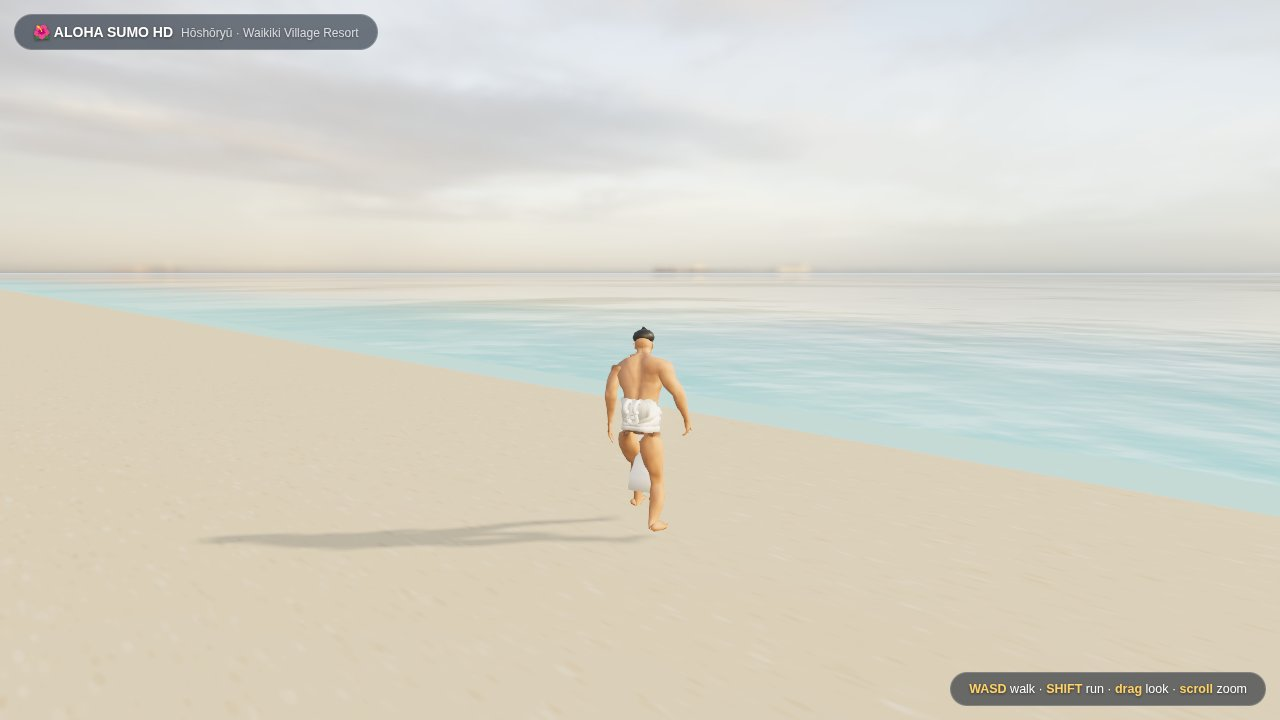
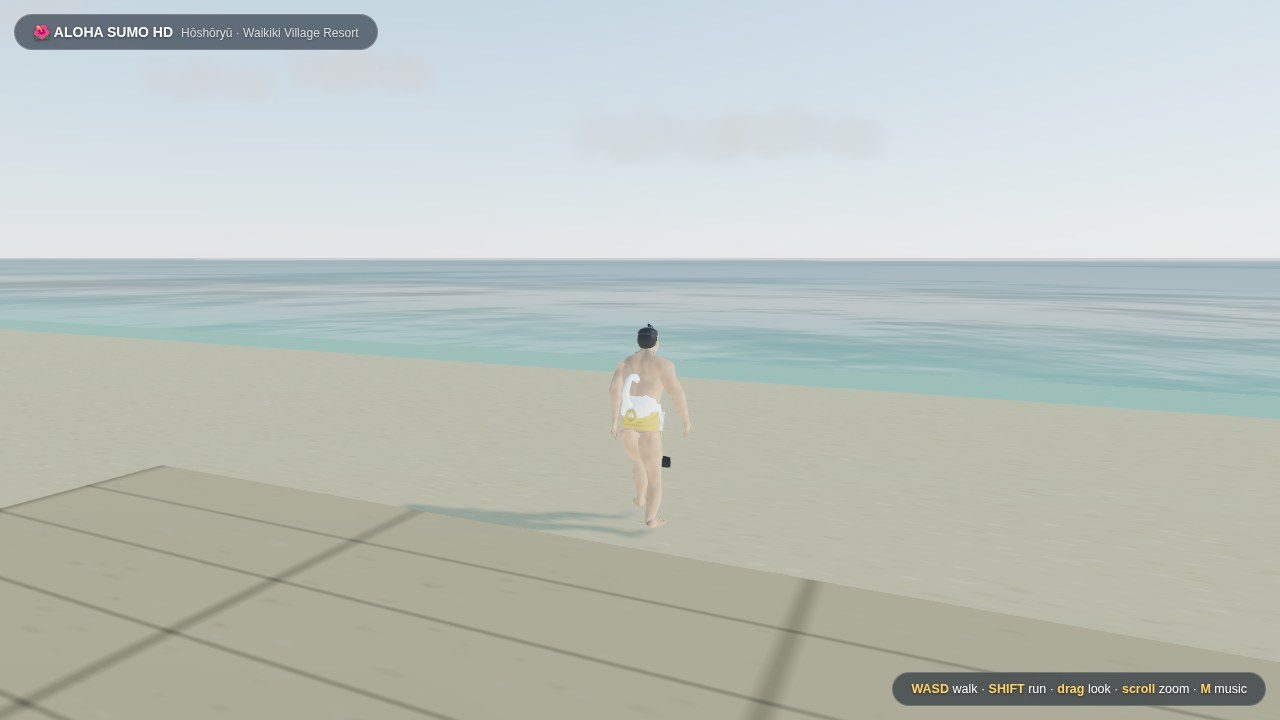
Hawaii-bright sky and island music for the HD demo
Swap the hazy sunrise HDRI for a bright tropical Sky shader baked into
the environment lighting, add trade-wind cumulus, retune exposure/fog,
turquoise-to-deep ocean gradient with calmer water. Add background music:
original slack-key-style synthesized instrumental (M to mute), with
auto-detection of a user-supplied waimanalo-blues.mp3 drop-in.

Claude-Session: https://claude.ai/code/session_013bmtFi8wgBC195uR3SXmAP

diff --git a/aloha-hd/src/hd-main.js b/aloha-hd/src/hd-main.js
@@ -4,31 +4,31 @@
    bloom + SMAA post. Bundled fully self-contained (assets are base64). */
 import * as THREE from 'three';
 import { GLTFLoader } from 'three/examples/jsm/loaders/GLTFLoader.js';
-import { RGBELoader } from 'three/examples/jsm/loaders/RGBELoader.js';
+import { Sky } from 'three/examples/jsm/objects/Sky.js';
 import { Water } from 'three/examples/jsm/objects/Water.js';
 import { EffectComposer } from 'three/examples/jsm/postprocessing/EffectComposer.js';
 import { RenderPass } from 'three/examples/jsm/postprocessing/RenderPass.js';
 import { UnrealBloomPass } from 'three/examples/jsm/postprocessing/UnrealBloomPass.js';
 import { SMAAPass } from 'three/examples/jsm/postprocessing/SMAAPass.js';
 import { OutputPass } from 'three/examples/jsm/postprocessing/OutputPass.js';
-import { SUMO_GLB, HDR_BEACH, TEX_WATERNORMALS, TEX_GRASS } from './hd-assets.js';
+import { SUMO_GLB, TEX_WATERNORMALS, TEX_GRASS } from './hd-assets.js';
 
 const canvas = document.getElementById('c');
 const renderer = new THREE.WebGLRenderer({ canvas, antialias: true, powerPreference: 'high-performance' });
 renderer.setPixelRatio(Math.min(devicePixelRatio || 1, 2));
 renderer.setSize(innerWidth, innerHeight);
 renderer.toneMapping = THREE.ACESFilmicToneMapping;
-renderer.toneMappingExposure = 1.05;
+renderer.toneMappingExposure = 0.55;
 renderer.shadowMap.enabled = true;
 renderer.shadowMap.type = THREE.PCFSoftShadowMap;
 
 const scene = new THREE.Scene();
-scene.fog = new THREE.Fog(0xcfdde6, 220, 1400);
+scene.fog = new THREE.Fog(0xd8ecf8, 420, 2800);
 const camera = new THREE.PerspectiveCamera(55, innerWidth / innerHeight, 0.25, 5000);
 
 const composer = new EffectComposer(renderer);
 composer.addPass(new RenderPass(scene, camera));
-const bloom = new UnrealBloomPass(new THREE.Vector2(innerWidth, innerHeight), 0.18, 0.7, 0.92);
+const bloom = new UnrealBloomPass(new THREE.Vector2(innerWidth, innerHeight), 0.15, 0.7, 0.95);
 composer.addPass(bloom);
 const smaa = new SMAAPass(innerWidth, innerHeight);
 composer.addPass(smaa);
@@ -47,8 +47,8 @@ const beachY = z => z <= SHORE_Z ? 0 : -0.028 * (z - SHORE_Z) * (z - SHORE_Z) / 
 const groundY = (x, z) => beachY(z);
 
 // sun matched to the HDRI sunrise over the water
-const sunDir = new THREE.Vector3(-0.55, 0.42, 0.72).normalize();
-const sun = new THREE.DirectionalLight(0xffe6c0, 3.2);
+const sunDir = new THREE.Vector3(-0.78, 0.6, 0.2).normalize();
+const sun = new THREE.DirectionalLight(0xfff2dd, 2.2);
 sun.castShadow = true;
 sun.shadow.mapSize.set(2048, 2048);
 sun.shadow.camera.near = 5; sun.shadow.camera.far = 300;
@@ -57,16 +57,55 @@ sun.shadow.camera.top = 40; sun.shadow.camera.bottom = -30;
 sun.shadow.bias = -0.0004;
 scene.add(sun, sun.target);
 
-// HDRI: image-based lighting + photographic sky
-new RGBELoader().load(HDR_BEACH, tex => {
-  tex.mapping = THREE.EquirectangularReflectionMapping;
-  scene.environment = tex;
-  scene.background = tex;
-  scene.backgroundRotation = new THREE.Euler(0, 2.0, 0);
-  scene.environmentRotation = new THREE.Euler(0, 2.0, 0);
-  scene.environmentIntensity = 1.0;
-  scene.backgroundIntensity = 1.0;
-});
+// bright tropical sky: atmosphere shader drives both backdrop and IBL
+const sky = new Sky();
+sky.scale.setScalar(4000);
+const skyU = sky.material.uniforms;
+skyU.turbidity.value = 2.0;
+skyU.rayleigh.value = 1.35;
+skyU.mieCoefficient.value = 0.002;
+skyU.mieDirectionalG.value = 0.8;
+skyU.sunPosition.value.copy(sunDir);
+{
+  const pmrem = new THREE.PMREMGenerator(renderer);
+  const envScene = new THREE.Scene();
+  envScene.add(sky);
+  scene.environment = pmrem.fromScene(envScene).texture;
+  scene.add(sky); // re-attach as the visible backdrop
+}
+// trade-wind cumulus
+{
+  const cv = document.createElement('canvas'); cv.width = 256; cv.height = 128;
+  const cx = cv.getContext('2d');
+  const baseY = 92;
+  for (let i = 0; i < 30; i++) {
+    const x = 128 + (Math.random() - 0.5) * 180;
+    const r = 12 + Math.random() * 24;
+    let y = baseY - Math.abs(Math.random() - 0.5) * 66 - r * 0.3;
+    if (y > baseY - r * 0.4) y = baseY - r * 0.4;
+    const g = cx.createRadialGradient(x, y, 1, x, y, r);
+    g.addColorStop(0, 'rgba(255,253,248,0.78)');
+    g.addColorStop(0.8, 'rgba(252,248,240,0.28)');
+    g.addColorStop(1, 'rgba(252,248,240,0)');
+    cx.fillStyle = g;
+    cx.fillRect(0, 0, 256, 128);
+  }
+  cx.clearRect(0, baseY + 6, 256, 128 - baseY - 6);
+  const tex = new THREE.CanvasTexture(cv);
+  window.__clouds = [];
+  for (let i = 0; i < 12; i++) {
+    const sp = new THREE.Sprite(new THREE.SpriteMaterial({ map: tex, transparent: true, depthWrite: false, fog: false }));
+    sp.material.toneMapped = false;
+    sp.material.opacity = 0.5 + Math.random() * 0.22;
+    const a = Math.random() * 6.283, d = 900 + Math.random() * 500;
+    sp.position.set(Math.cos(a) * d, 150 + Math.random() * 160, Math.sin(a) * d);
+    const sc = 220 + Math.random() * 170;
+    sp.scale.set(sc, sc * 0.5, 1);
+    sp.userData.v = 1 + Math.random() * 1.5;
+    scene.add(sp);
+    window.__clouds.push(sp);
+  }
+}
 
 // ocean
 const water = new Water(new THREE.PlaneGeometry(6000, 6000), {
@@ -76,13 +115,13 @@ const water = new Water(new THREE.PlaneGeometry(6000, 6000), {
   }),
   sunDirection: sunDir.clone(),
   sunColor: 0xfff0d8,
-  waterColor: 0x0a5a70,
-  distortionScale: 2.8,
+  waterColor: 0x086478,
+  distortionScale: 1.6,
   fog: true,
 });
 water.rotation.x = -Math.PI / 2;
 water.position.y = SEA_Y;
-water.material.uniforms.size.value = 5;
+water.material.uniforms.size.value = 3;
 scene.add(water);
 
 // turquoise shallows overlay
@@ -99,6 +138,20 @@ scene.add(water);
   m.rotation.x = -Math.PI / 2;
   m.position.set(0, SEA_Y + 0.04, 62);
   scene.add(m);
+  // deep Pacific blue running to the horizon
+  const cv2 = document.createElement('canvas'); cv2.width = 16; cv2.height = 256;
+  const cx2 = cv2.getContext('2d');
+  const g2 = cx2.createLinearGradient(0, 0, 0, 256);
+  g2.addColorStop(0, 'rgba(20,140,160,0.05)');
+  g2.addColorStop(0.08, 'rgba(16,110,142,0.55)');
+  g2.addColorStop(0.45, 'rgba(11,78,124,0.65)');
+  g2.addColorStop(1, 'rgba(9,62,108,0.45)');
+  cx2.fillStyle = g2; cx2.fillRect(0, 0, 16, 256);
+  const deep = new THREE.Mesh(new THREE.PlaneGeometry(3000, 620),
+    new THREE.MeshBasicMaterial({ map: new THREE.CanvasTexture(cv2), transparent: true, depthWrite: false, fog: true }));
+  deep.rotation.x = -Math.PI / 2;
+  deep.position.set(0, SEA_Y + 0.03, 58 + 310);
+  scene.add(deep);
 }
 
 // sand
@@ -436,11 +489,16 @@ function animate() {
     sun.target.position.copy(sumo.position);
   }
   if (mixer) mixer.update(dt);
+  if (window.__music) window.__music.update(dt);
 
   water.material.uniforms.time.value += dt * 0.5;
   for (const p of palms) {
     p.userData.cr.rotation.x = Math.sin(t * 1.1 + p.userData.ph) * 0.03;
     p.userData.cr.rotation.z = Math.cos(t * 0.9 + p.userData.ph) * 0.04;
+  }
+  for (const c of (window.__clouds || [])) {
+    c.position.x += c.userData.v * dt;
+    if (c.position.x > 1500) c.position.x = -1500;
   }
   for (const to of (window.__torches || [])) {
     const f = 0.8 + 0.28 * Math.sin(t * 13 + to.ph) + 0.16 * Math.sin(t * 29 + to.ph * 2);
@@ -451,6 +509,87 @@ function animate() {
   composer.render();
 }
 animate();
+
+// ------------------------------------------------------------------ music
+// Drop a file named waimanalo-blues.mp3 next to index.html and it will play.
+// Otherwise an original slack-key-style island instrumental is synthesized.
+const music = {
+  started: false, muted: false, el: null, ctx: null, gain: null, timer: 0, step: 0,
+  start() {
+    if (this.started) return;
+    this.started = true;
+    const el = new Audio('waimanalo-blues.mp3');
+    el.loop = true; el.volume = 0.55;
+    el.play().then(() => { this.el = el; }).catch(() => this.synth());
+    el.onerror = () => { if (!this.ctx) this.synth(); };
+  },
+  synth() {
+    const AC = window.AudioContext || window.webkitAudioContext;
+    if (!AC) return;
+    this.ctx = new AC();
+    this.gain = this.ctx.createGain();
+    this.gain.gain.value = 0.5;
+    this.gain.connect(this.ctx.destination);
+  },
+  pluck(f, t0, vel, slide) {
+    const ctx = this.ctx, o = ctx.createOscillator(), g = ctx.createGain(), fl = ctx.createBiquadFilter();
+    o.type = 'triangle';
+    if (slide) { o.frequency.setValueAtTime(f * 0.94, t0); o.frequency.exponentialRampToValueAtTime(f, t0 + 0.12); }
+    else o.frequency.value = f;
+    fl.type = 'lowpass';
+    fl.frequency.setValueAtTime(2400, t0);
+    fl.frequency.exponentialRampToValueAtTime(650, t0 + 0.7);
+    g.gain.setValueAtTime(0, t0);
+    g.gain.linearRampToValueAtTime(vel, t0 + 0.014);
+    g.gain.exponentialRampToValueAtTime(0.001, t0 + 1.3);
+    o.connect(fl); fl.connect(g); g.connect(this.gain);
+    o.start(t0); o.stop(t0 + 1.4);
+  },
+  bass(f, t0, dur) {
+    const ctx = this.ctx, o = ctx.createOscillator(), g = ctx.createGain();
+    o.type = 'sine'; o.frequency.value = f;
+    g.gain.setValueAtTime(0, t0);
+    g.gain.linearRampToValueAtTime(0.16, t0 + 0.02);
+    g.gain.exponentialRampToValueAtTime(0.001, t0 + dur);
+    o.connect(g); g.connect(this.gain);
+    o.start(t0); o.stop(t0 + dur + 0.05);
+  },
+  update(dt) {
+    if (!this.ctx || this.muted) return;
+    this.timer -= dt;
+    if (this.timer > 0) return;
+    // laid-back island progression: C - Am - F - G7, finger-picked
+    const C = [261.6, 329.6, 392.0, 523.3], Am = [220.0, 261.6, 329.6, 440.0];
+    const F = [174.6, 261.6, 349.2, 440.0], G7 = [196.0, 246.9, 392.0, 493.9];
+    const prog = [[C, 130.8], [Am, 110.0], [F, 87.3], [G7, 98.0]];
+    const beat = 0.79;                      // ~76 bpm
+    const bar = this.step % 4, chord = prog[((this.step / 4) | 0) % 4];
+    const t0 = this.ctx.currentTime + 0.03;
+    if (bar === 0) this.bass(chord[1], t0, beat * 2);
+    if (bar === 2) this.bass(chord[1] * 1.5, t0, beat * 1.4);
+    const notes = chord[0];
+    const pick = [0, 2, 1, 3][bar];
+    this.pluck(notes[pick], t0, 0.075, false);
+    if (bar === 1) this.pluck(notes[3] * 1.0, t0 + beat * 0.5, 0.05, true);   // steel-ish slide
+    if (bar === 3 && ((this.step / 4) | 0) % 4 === 3)
+      this.pluck(notes[2] * 2, t0 + beat * 0.5, 0.045, true);
+    this.step++;
+    this.timer = beat;
+  },
+  toggle() {
+    this.muted = !this.muted;
+    if (this.el) this.el.muted = this.muted;
+    if (this.gain) this.gain.gain.value = this.muted ? 0 : 0.5;
+    return this.muted;
+  },
+};
+window.__music = music;
+addEventListener('keydown', e => {
+  music.start();
+  if (e.code === 'KeyM') music.toggle();
+});
+addEventListener('mousedown', () => music.start());
+addEventListener('touchstart', () => music.start());
 
 // debug hooks
 window.__game = {

diff --git a/aloha-hd/index.html b/aloha-hd/index.html
@@ -25,7 +25,7 @@ html,body { width:100%; height:100%; overflow:hidden; background:#0a1622;
 <body>
 <canvas id="c"></canvas>
 <div id="title" class="chip">🌺 ALOHA SUMO HD<span>Hōshōryū · Waikiki Village Resort</span></div>
-<div id="hint" class="chip"><b>WASD</b> walk · <b>SHIFT</b> run · <b>drag</b> look · <b>scroll</b> zoom</div>
+<div id="hint" class="chip"><b>WASD</b> walk · <b>SHIFT</b> run · <b>drag</b> look · <b>scroll</b> zoom · <b>M</b> music</div>
 <div id="load">LANDING IN HONOLULU…</div>
 <script src="bundle.js"></script>
 </body>

diff --git a/aloha-hd/src/hd-embed.js b/aloha-hd/src/hd-embed.js
@@ -11,7 +11,6 @@ function dataUrl(p, mime) {
 
 const out = `// generated by hd-embed.js — do not edit
 export const SUMO_GLB = "${dataUrl(path.join(HERE, 'hoshoryu.glb'), 'model/gltf-binary')}";
-export const HDR_BEACH = "${dataUrl(path.join(HERE, 'three-repo/examples/textures/equirectangular/blouberg_sunrise_2_1k.hdr'), 'application/octet-stream')}";
 export const TEX_WATERNORMALS = "${dataUrl(path.join(HERE, 'waternormals.jpg'), 'image/jpeg')}";
 export const TEX_GRASS = "${dataUrl(path.join(HERE, 'three-repo/examples/textures/terrain/grasslight-big.jpg'), 'image/jpeg')}";
 `;

diff --git a/aloha-hd/README.md b/aloha-hd/README.md
@@ -13,7 +13,12 @@ at golden hour.
 
 Open `aloha-hd/index.html` in any modern browser. Fully self-contained —
 the character, HDRI and textures are embedded in `bundle.js` (~14 MB).
-**WASD** walk · **SHIFT** run · **drag** look · **scroll** zoom.
+**WASD** walk · **SHIFT** run · **drag** look · **scroll** zoom · **M** music.
+
+**Music:** an original slack-key-style island instrumental plays by default
+(synthesized live — any key starts it). To hear *Waimanalo Blues* instead,
+drop a file you own named `waimanalo-blues.mp3` into this folder — the game
+auto-detects and loops it.
 
 ## 🔬 How it was made (the actual pipeline)
 
@@ -27,9 +32,9 @@ the character, HDRI and textures are embedded in `bundle.js` (~14 MB).
 2. **Animation — world-space constraint retargeting** (`src/gen_anims.py`):
    the three.js Soldier's mocap Idle/Walk/Run clips are baked bone-by-bone
    onto the sumo rig with visual keying, then exported inside the GLB.
-3. **Rendering — three.js r160**: HDRI image-based lighting *and*
-   photographic sky (`blouberg_sunrise` — real sunrise clouds and coastal
-   skyline on the horizon), ACES tone mapping, PCF soft shadows, reflective
+3. **Rendering — three.js r160**: bright tropical-sky atmosphere shader
+   driving both the backdrop and the image-based lighting (PMREM), trade-wind
+   cumulus, ACES tone mapping, PCF soft shadows, reflective
    ocean (`Water` + real normal map), PBR grass texture, procedural palms,
    torches with real point lights, UnrealBloom + SMAA post-processing.
 4. Bundled with esbuild; assets embedded as base64 so `file://` just works.